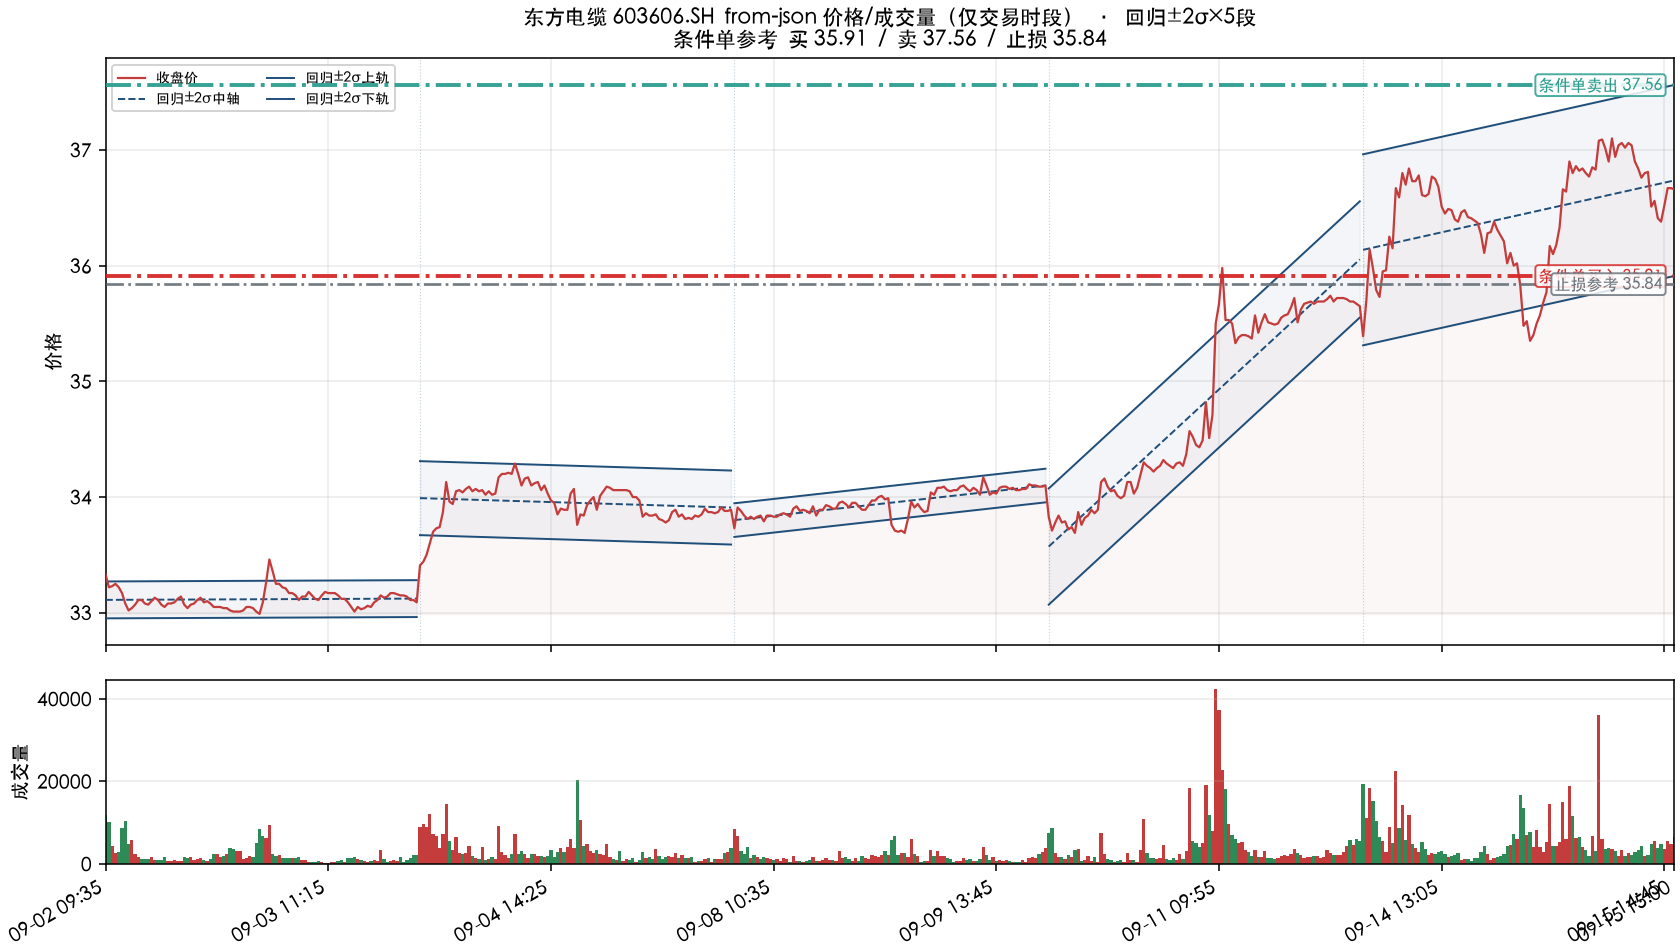
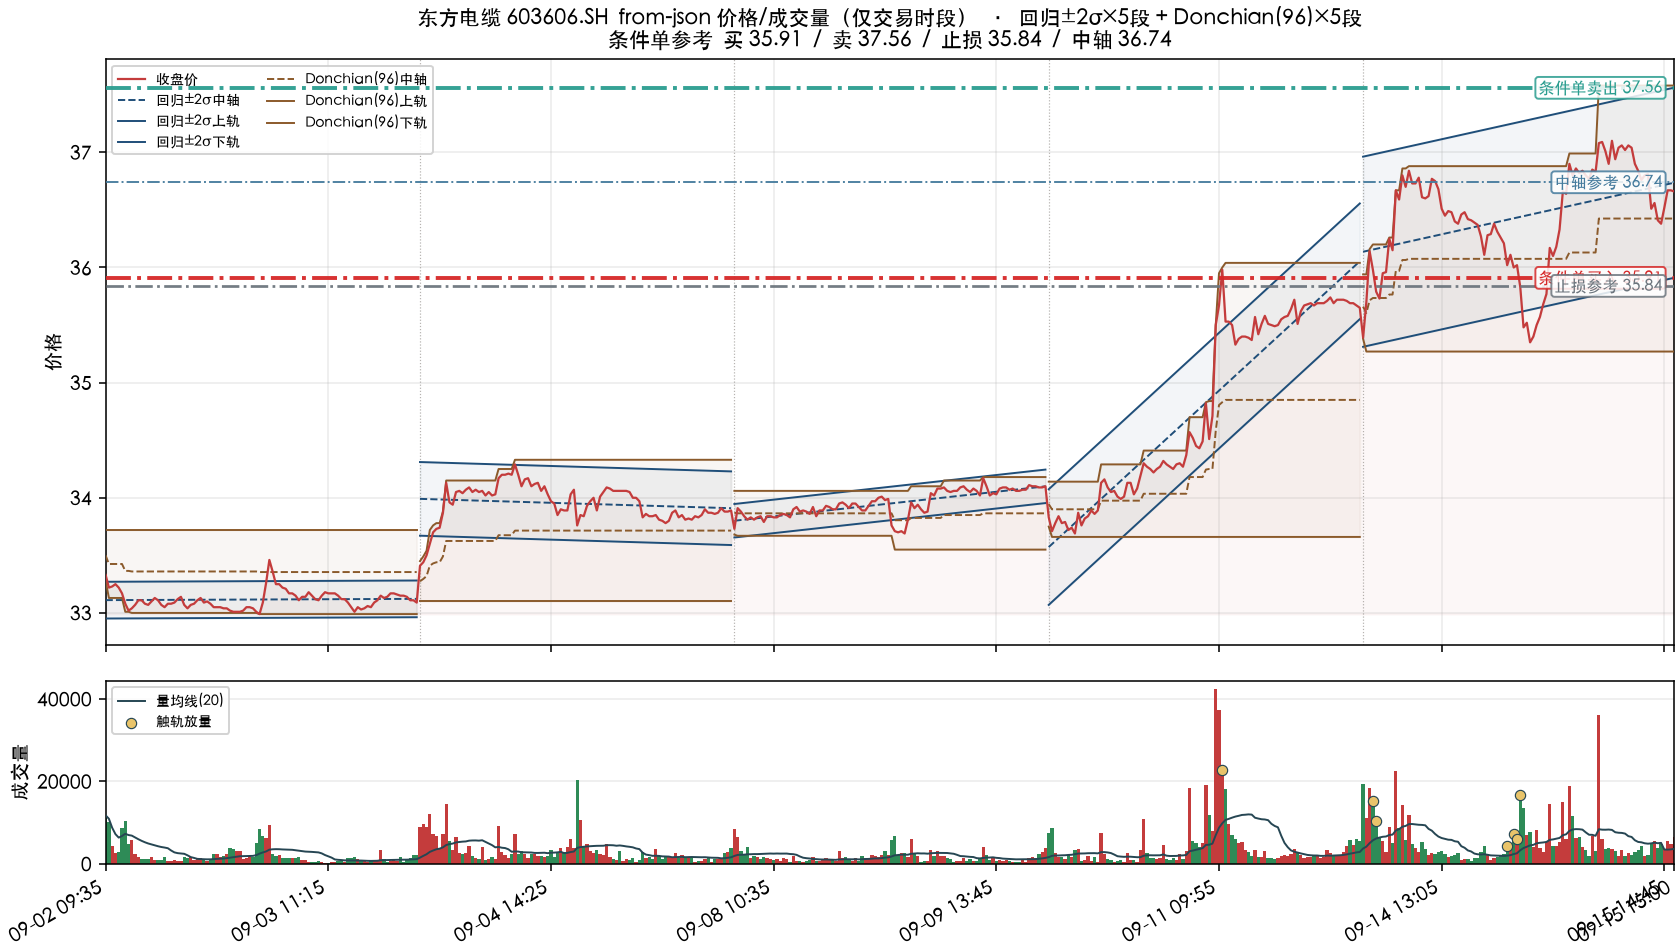
feat: add emplot-channel and emplot-pv CLI entrypoints
Expose the two chart presets as dedicated AI-friendly commands with
fixed defaults, --json levels output, and emquote plot-* aliases.

diff --git a/src/emquote/plot_cli.py b/src/emquote/plot_cli.py
@@ -1,0 +1,177 @@
+"""两个面向 AI/脚本调用的画图 CLI。
+
+- emplot-channel：价格通道图（回归 + Donchian）+ 条件单价
+- emplot-pv：价量通道图（价量加权回归 + Donchian）+ 条件单价 + 触轨放量
+
+刻意参数少、默认值固定，方便 agent 直接调用。
+"""
+
+from __future__ import annotations
+
+import argparse
+import json
+import sys
+from pathlib import Path
+from typing import Any
+
+from .client import EastMoneyClient, QuoteError
+from .levels import parse_channels, suggest_condition_orders
+from .plotting import plot_close_curve, print_condition_levels
+
+# 与 README 示例图一致的预设
+PRESETS: dict[str, dict[str, Any]] = {
+    "channel": {
+        "title": "价格通道图",
+        "channel": "reg,donchian",
+        "channel_window": 96,
+        "channel_width": 2.0,
+        "default_output": "emquote-channel.png",
+        "help": "价格通道（线性回归 + Donchian）+ 条件单买/卖/止损标注",
+    },
+    "pv": {
+        "title": "价量通道图",
+        "channel": "vwreg,donchian",
+        "channel_window": 96,
+        "channel_width": 2.0,
+        "default_output": "emquote-price-volume.png",
+        "help": "价量加权回归 + Donchian + 量均线/触轨放量 + 条件单标注",
+    },
+}
+
+
+def _default_output(preset: str, symbol: str | None) -> str:
+    base = PRESETS[preset]["default_output"]
+    if not symbol:
+        return base
+    code = symbol.split(".")[0].replace("/", "-")
+    stem = Path(base).stem
+    return f"{code}-{stem.replace('emquote-', '')}.png"
+
+
+def _build_parser(preset: str) -> argparse.ArgumentParser:
+    meta = PRESETS[preset]
+    prog = "emplot-channel" if preset == "channel" else "emplot-pv"
+    p = argparse.ArgumentParser(
+        prog=prog,
+        description=f"{meta['title']}：{meta['help']}。只读研究，不下单。",
+    )
+    p.add_argument(
+        "symbol",
+        nargs="?",
+        default=None,
+        help="股票代码，如 603606.SH；使用 --from-json 时可省略",
+    )
+    p.add_argument("-o", "--output", default=None, help="输出 PNG 路径（默认按代码自动命名）")
+    p.add_argument("-i", "--interval", default="5m", help="K 线周期，默认 5m")
+    p.add_argument("--days", type=int, default=10, help="最近 N 个交易日，默认 10")
+    p.add_argument("--bars", type=int, default=None, help="只保留最近 N 根")
+    p.add_argument("--adjust", choices=["none", "qfq", "hfq"], default="none", help="复权")
+    p.add_argument("--from-json", dest="from_json", help="离线读取东财原始 JSON")
+    p.add_argument(
+        "--channel-window",
+        type=int,
+        default=meta["channel_window"],
+        help=f"分段长度（根数），默认 {meta['channel_window']}",
+    )
+    p.add_argument(
+        "--channel-width",
+        type=float,
+        default=meta["channel_width"],
+        help=f"回归带宽（σ 倍数），默认 {meta['channel_width']}",
+    )
+    p.add_argument("--single-window", action="store_true", help="不切段，只画最近一段")
+    p.add_argument("--no-levels", action="store_true", help="不在图上标注条件单价")
+    p.add_argument(
+        "--json",
+        action="store_true",
+        help="额外把条件单参考价以 JSON 打到 stdout（便于 AI 解析）",
+    )
+    p.add_argument("--timeout", type=float, default=20.0, help="请求超时秒数")
+    p.add_argument("--retries", type=int, default=3, help="每主机重试次数")
+    return p
+
+
+def _load_kline(client: EastMoneyClient, args: argparse.Namespace) -> dict[str, Any]:
+    if args.from_json:
+        payload = json.loads(Path(args.from_json).expanduser().read_text(encoding="utf-8"))
+        return EastMoneyClient.kline_from_payload(payload, days=args.days, bars=args.bars)
+    if not args.symbol:
+        raise QuoteError("请提供股票代码，或使用 --from-json")
+    return client.kline(
+        args.symbol,
+        interval=args.interval,
+        days=args.days,
+        bars=args.bars,
+        adjust=args.adjust,
+    )
+
+
+def _run_plot(preset: str, argv: list[str] | None = None) -> int:
+    meta = PRESETS[preset]
+    args = _build_parser(preset).parse_args(argv)
+    client = EastMoneyClient(timeout=args.timeout, retries=args.retries)
+    channel = meta["channel"]
+    kinds = parse_channels(channel)
+
+    try:
+        k = _load_kline(client, args)
+        out = args.output or _default_output(preset, args.symbol or k.get("symbol"))
+        path = plot_close_curve(
+            k,
+            out,
+            channel=channel,
+            channel_window=args.channel_window,
+            channel_width=args.channel_width,
+            show_levels=not args.no_levels,
+            full_range=not args.single_window,
+        )
+        report = None
+        if kinds != ["none"]:
+            report = suggest_condition_orders(
+                k,
+                channels=kinds,
+                channel_window=args.channel_window,
+                channel_width=args.channel_width,
+                full_range=not args.single_window,
+            )
+
+        if args.json:
+            payload = {
+                "preset": preset,
+                "title": meta["title"],
+                "channel": channel,
+                "output": str(path),
+                "symbol": k.get("symbol"),
+                "name": k.get("name"),
+                "interval": k.get("interval"),
+                "bars": len(k.get("bars") or []),
+                "levels": report,
+            }
+            print(json.dumps(payload, ensure_ascii=False, indent=2))
+        else:
+            print(f"[{meta['title']}] 已保存: {path}")
+            print(
+                f"{k.get('name')} {k.get('symbol')}  {k.get('interval')}  "
+                f"bars={len(k['bars'])}  channel={channel}"
+            )
+            if report:
+                print()
+                print_condition_levels(report)
+        return 0
+    except (QuoteError, ValueError, RuntimeError, OSError, json.JSONDecodeError) as exc:
+        print(f"失败: {exc}", file=sys.stderr)
+        return 1
+
+
+def main_channel(argv: list[str] | None = None) -> int:
+    """emplot-channel 入口。"""
+    return _run_plot("channel", argv)
+
+
+def main_pv(argv: list[str] | None = None) -> int:
+    """emplot-pv 入口。"""
+    return _run_plot("pv", argv)
+
+
+if __name__ == "__main__":
+    raise SystemExit(main_channel())

diff --git a/src/emquote/cli.py b/src/emquote/cli.py
@@ -12,6 +12,7 @@ from typing import Any
 from .client import EastMoneyClient, QuoteError
 from .levels import parse_channels, suggest_condition_orders
 from .plotting import plot_close_curve, print_condition_levels
+from .plot_cli import main_channel, main_pv
 
 
 def _print_quote(q: dict[str, Any]) -> None:
@@ -128,11 +129,22 @@ def build_parser() -> argparse.ArgumentParser:
     pk.add_argument("--json", action="store_true", help="输出 JSON")
     pk.add_argument("--csv", action="store_true", help="输出 CSV 到 stdout")
 
-    pp = sub.add_parser("plot", help="绘制价格/成交量/通道图并保存 PNG")
+    pp = sub.add_parser("plot", help="绘制价格/成交量/通道图并保存 PNG（通用，可自选通道）")
     _add_kline_fetch_args(pp)
     pp.add_argument("-o", "--output", default="emquote-chart.png", help="输出 PNG 路径")
     _add_channel_args(pp, default="reg")
     pp.add_argument("--no-levels", action="store_true", help="不在图上标注条件单参考价")
+
+    sub.add_parser(
+        "plot-channel",
+        help="【AI 推荐】价格通道图 CLI 别名 → 同 emplot-channel",
+        add_help=False,
+    )
+    sub.add_parser(
+        "plot-pv",
+        help="【AI 推荐】价量通道图 CLI 别名 → 同 emplot-pv",
+        add_help=False,
+    )
 
     pl = sub.add_parser(
         "levels",
@@ -145,6 +157,13 @@ def build_parser() -> argparse.ArgumentParser:
 
 
 def main(argv: list[str] | None = None) -> int:
+    argv = list(sys.argv[1:] if argv is None else argv)
+    # 两个专用画图工具也可经 emquote 子命令转发，便于统一发现入口。
+    if argv and argv[0] == "plot-channel":
+        return main_channel(argv[1:])
+    if argv and argv[0] == "plot-pv":
+        return main_pv(argv[1:])
+
     args = build_parser().parse_args(argv)
     client = EastMoneyClient(timeout=args.timeout, retries=args.retries)
     try:

diff --git a/README.md b/README.md
@@ -21,6 +21,30 @@ pip install -e '.[plot]'
 emquote --help
 ```
 
+## 给 AI / 脚本调用的两个画图 CLI
+
+安装 `.[plot]` 后提供两个**独立命令**（参数少、预设固定，适合 agent 直接调用）：
+
+| 命令 | 画什么 | 默认通道 |
+|---|---|---|
+| `emplot-channel` | 价格通道图 + 条件单买/卖/止损 | `reg,donchian` |
+| `emplot-pv` | 价量通道图 + 量均线/触轨放量 + 条件单 | `vwreg,donchian` |
+
+```bash
+# 在线
+emplot-channel 603606.SH -o channel.png
+emplot-pv 603606.SH -o price-volume.png
+
+# 离线样例
+emplot-channel --from-json examples/sample-603606-5m.json --days 10 -o channel.png
+emplot-pv --from-json examples/sample-603606-5m.json --days 10 -o price-volume.png
+
+# AI 友好：JSON 输出条件单价（图仍会保存）
+emplot-pv 603606.SH -o out.png --json
+```
+
+也可写成子命令：`emquote plot-channel ...` / `emquote plot-pv ...`（与上面两个入口等价）。
+
 ## 常用命令
 
 ```bash
@@ -33,9 +57,8 @@ emquote kline 603606.SH -i 5m --days 10
 emquote kline 603606.SH -i 5m --days 10 --csv > bars.csv
 emquote kline 603606.SH -i 1d --days 30
 
-# 画图：上价格下成交量；可叠加多种通道（reg / vwreg / donchian / hl）
+# 通用画图（自选通道）：上价格下成交量
 # vwreg = 成交量加权回归通道（同时考虑价格与量）
-# 短线窗口可收窄到约 1～2 日（5 分钟约 48/96 根）
 emquote plot 603606.SH -i 5m --days 10 --channel vwreg,donchian --channel-window 96 -o out.png
 # 默认按窗口自动切成多段覆盖全时段，并把条件单买/卖/止损画在图上
 # 若只要最近一段：加 --single-window
@@ -53,16 +76,17 @@ emquote levels 603606.SH -i 5m --days 10 --channel vwreg,donchian --channel-wind
 ```bash
 emquote kline --from-json examples/sample-603606-5m.json --days 10
 emquote plot --from-json examples/sample-603606-5m.json --days 10 -o demo.png
-emquote plot --from-json examples/sample-603606-5m.json --days 10 \
-  --channel vwreg,donchian --channel-window 96 \
+emplot-channel --from-json examples/sample-603606-5m.json --days 10 \
+  -o examples/demo-603606-5m-10d.png
+emplot-pv --from-json examples/sample-603606-5m.json --days 10 \
   -o examples/demo-603606-5m-price-volume.png
 ```
 
-示例图（价格通道）：
+示例图（价格通道 · `emplot-channel`）：
 
 ![东方电缆 5 分钟收盘价（近 10 日）](examples/demo-603606-5m-10d.png)
 
-示例图（价量加权通道 + 条件单参考价）：
+示例图（价量通道 · `emplot-pv`）：
 
 ![东方电缆 5 分钟价量通道（近 10 日）](examples/demo-603606-5m-price-volume.png)
 
@@ -72,6 +96,8 @@ emquote plot --from-json examples/sample-603606-5m.json --days 10 \
 |---|---|---|
 | `quote` 实时快照 | ✅ | 代码、名称、最新价、时间 |
 | `kline` 多周期 | ✅ | 含「最近 N 日 × 5 分钟」 |
+| `emplot-channel` | ✅ | 价格通道图独立 CLI（AI 调用） |
+| `emplot-pv` | ✅ | 价量通道图独立 CLI（AI 调用） |
 | `plot` 价格/成交量图 | ✅ | 上价格、下成交量；可叠加 reg/vwreg/donchian/hl |
 | `levels` 条件单参考价 | ✅ | 给出买入/卖出/止损触价，人工录入东财 |
 | JSON / CSV | ✅ | 方便接 pandas / 其它脚本 |
